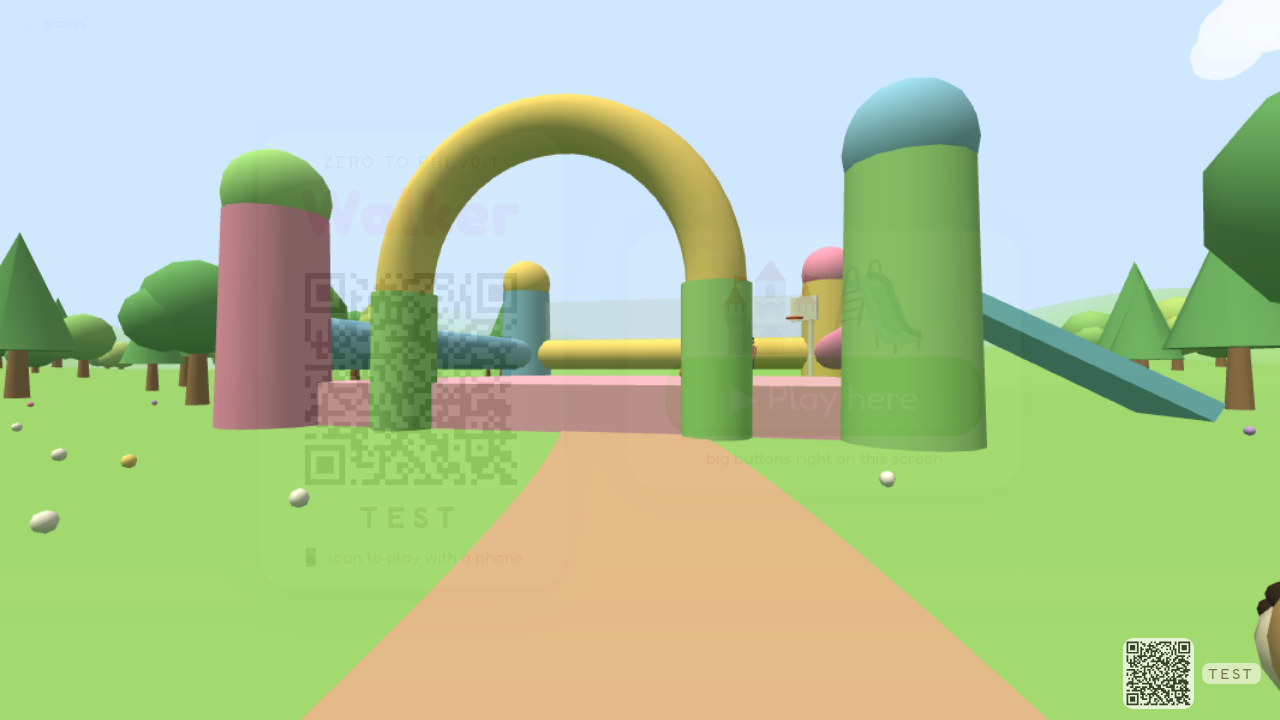
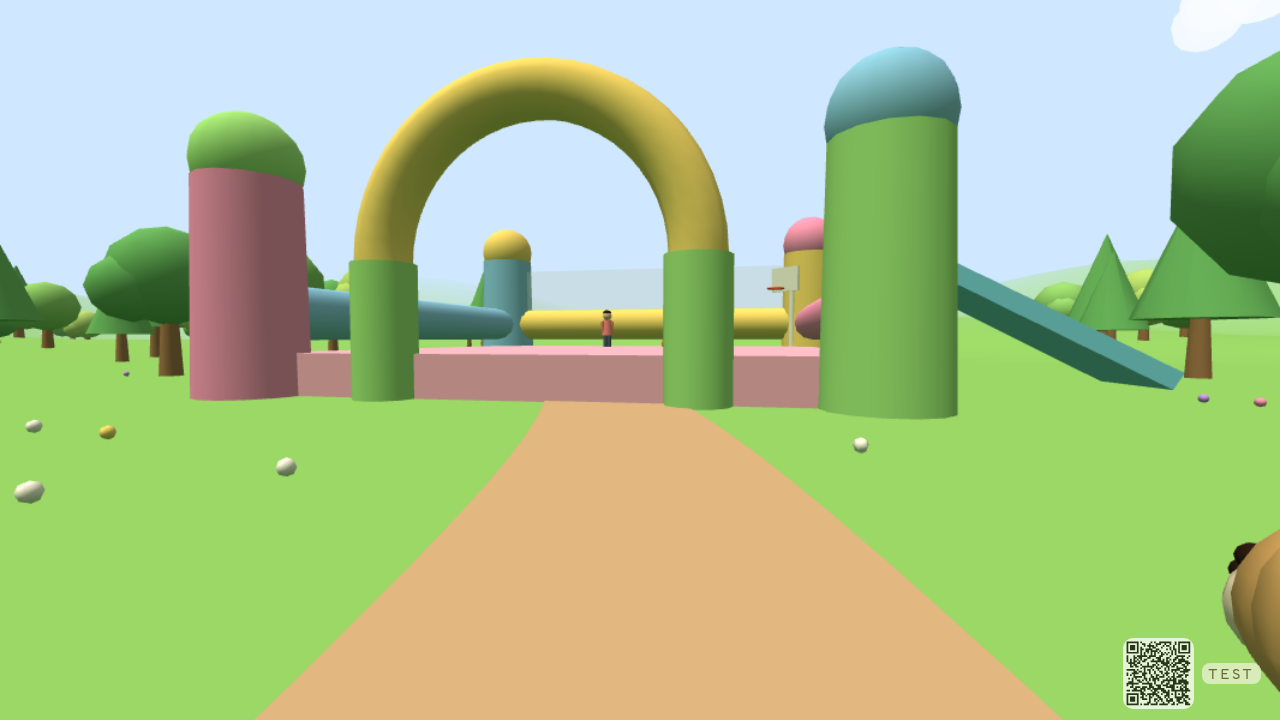
Space + Walker: welcome-first handshake, patient dial timeout, Coming aboard/Connecting watchdog with retry + messages; Walker start overlay dismisses on join/any input

diff --git a/games/walker/js/tv.js b/games/walker/js/tv.js
@@ -424,7 +424,8 @@
   function pushState() { var m = stateMsg(); for (var id in phones) net.send(phones[id], m); if (localPad) localPad.setState(m); lastPush = st.t; }
   function onMsg(conn, m) {
     if (!m || !m.t) return;
-    if (!phones[conn.connectionId]) { phones[conn.connectionId] = conn; nPhones++; hideStart(); }
+    if (!phones[conn.connectionId]) { phones[conn.connectionId] = conn; nPhones++; }
+    hideStart();
     if (m.t === 'hello') { net.send(conn, stateMsg()); }
     else if (m.t === 'tap') tap(m.id);
     else if (m.t === 'back') back();
@@ -433,7 +434,7 @@
   }
   function applySettings(s) { for (var k in s) if (k in C.defaults) settings[k] = s[k]; walkerSaveSettings(settings); setBuddy(); pushState(); }
   var useLocal = q.get('local') === '1';
-  var net = new (useLocal ? LRNet.LocalHost : LRNet.Host)({ code: q.get('room') || undefined, onStatus: function (s, code) { showCode(); }, onMessage: onMsg, onClose: function (c) { if (phones[c.connectionId]) { delete phones[c.connectionId]; nPhones--; } } });
+  var net = new (useLocal ? LRNet.LocalHost : LRNet.Host)({ code: q.get('room') || undefined, onStatus: function (s, code) { showCode(); }, onMessage: onMsg, onJoin: function (c) { if (!phones[c.connectionId]) { phones[c.connectionId] = c; nPhones++; } hideStart(); }, onClose: function (c) { if (phones[c.connectionId]) { delete phones[c.connectionId]; nPhones--; } } });
 
   // ---------------------------------------------------------------- start screen + Play here
   var startEl = document.getElementById('start'), localPad = null;
@@ -444,7 +445,15 @@
     document.getElementById('mini').innerHTML = document.getElementById('qr').innerHTML; document.getElementById('minicode').textContent = net.code;
     window.WALKER.controllerUrl = url;
   }
-  function hideStart() { if (st.mode === 'start') { st.mode = 'area'; startEl.classList.add('gone'); S.init(); pushState(); } }
+  var started = false;
+  // the overlay goes on its own flag: st.mode can drift off 'start' (idle moments etc.) before a phone arrives, which used to leave the QR up forever
+  function hideStart() {
+    if (started) return; started = true;
+    startEl.classList.add('gone'); setTimeout(function () { startEl.style.display = 'none'; }, 900);
+    if (st.mode === 'start') st.mode = 'area';
+    try { S.init(); } catch (e) {}
+    try { pushState(); } catch (e) {}
+  }
   function playHere() {
     S.init(); hideStart(); if (localPad) return;
     document.body.classList.add('local');
@@ -454,9 +463,9 @@
   }
   document.getElementById('here').onclick = playHere;
   document.addEventListener('pointerdown', function () { S.init(); });
-  document.addEventListener('keydown', function (e) { S.init(); if (e.key === 'Enter' && st.mode === 'start') playHere(); });
+  document.addEventListener('keydown', function (e) { S.init(); if (e.key === 'Enter' && !started) playHere(); });
   var tablet = isTouch && minDim >= 600 && maxDim <= 1600;
-  if (tablet) { document.getElementById('here').classList.add('suggest'); setTimeout(function () { if (st.mode === 'start' && !nPhones) playHere(); }, 7000); }
+  if (tablet) { document.getElementById('here').classList.add('suggest'); setTimeout(function () { if (!started && !nPhones) playHere(); }, 7000); }
   if (q.get('auto') === 'here') setTimeout(playHere, 300);
   document.getElementById('ver').textContent = 'v' + C.version;
 
@@ -474,6 +483,6 @@
     if (fpsT > 2 && !q.has('q')) { var fps = fpsN / fpsAcc; if (fps < C.quality.downBelowFps && rung < C.quality.rungs.length - 1) { slow++; if (slow > 1) { rung++; applyQ(); slow = 0; } } else slow = 0; if (fps > C.quality.upAboveFps && rung > 0) { fast++; if (fast > 6) { rung--; applyQ(); fast = 0; } } else fast = 0; fpsAcc = fpsN = fpsT = 0; }
     requestAnimationFrame(frame);
   }
-  window.WALKER = { st: st, tap: tap, back: back, moment: momentTap, set: applySettings, settings: settings, playHere: playHere, hue: function () { return hue; }, pos: pos, W: W, weather: weather, step: function (sec) { for (var i = 0; i < sec * 30; i++) { update(1 / 30); updateKids(1 / 30); updateBuddy(1 / 30); updateWorld(1 / 30); updateMoments(1 / 30); } renderer.render(scene, cam); } };
+  window.WALKER = { st: st, tap: tap, back: back, moment: momentTap, set: applySettings, settings: settings, playHere: playHere, started: function () { return started; }, hue: function () { return hue; }, pos: pos, W: W, weather: weather, step: function (sec) { for (var i = 0; i < sec * 30; i++) { update(1 / 30); updateKids(1 / 30); updateBuddy(1 / 30); updateWorld(1 / 30); updateMoments(1 / 30); } renderer.render(scene, cam); } };
   requestAnimationFrame(frame);
 })();

diff --git a/games/space/js/controller.js b/games/space/js/controller.js
@@ -14,21 +14,38 @@
   function buzz(ms) { try { if (navigator.vibrate) navigator.vibrate(ms || 15); } catch (e) {} }
 
   // ================================================================== join
+  var dock = { t0: 0, timer: null, hellos: 0, attempt: 0 };
+  function jstat(t) { $('joinStatus').textContent = t; }
+  function dockWatch() {        // 'Coming aboard' never hangs silently: re-greet, then say what's wrong, keep retrying
+    clearInterval(dock.timer);
+    dock.timer = setInterval(function () {
+      if (me) { clearInterval(dock.timer); return; }
+      var secs = (Date.now() - dock.t0) / 1000, online = net && net.status === 'online';
+      if (online && dock.hellos < 6) { dock.hellos++; send({ t: 'hello', clientId: cid, name: dock.name }); }
+      else if (online && net.reconnect) { dock.hellos = 0; net.reconnect(); }
+      if (secs > 45) { jstat('Can\u2019t reach the ship yet. Is ' + C.TITLE + ' open on the TV, and is this phone on the same Wi-Fi? Still trying\u2026'); $('joinBtn').textContent = 'TRY AGAIN'; }
+      else if (secs > 12) jstat(online ? 'Linked, waiting for the bridge to answer\u2026' : 'Still docking\u2026 (try ' + Math.max(1, dock.attempt) + ')');
+    }, 3000);
+  }
   function join() {
     var room = $('room').value.trim().toUpperCase(), name = $('name').value.trim() || 'Crew';
-    if (room.length !== 4) { $('joinStatus').textContent = 'Enter the 4-letter code from the bulkhead.'; return; }
-    localStorage.setItem('ds-name', name); $('joinStatus').textContent = 'Docking\u2026';
-    var opts = { code: room, onOpen: function () { send({ t: 'hello', clientId: cid, name: name }); }, onMessage: onMsg,
-      onStatus: function (s) { $('conn').className = 'conn' + (s === 'online' ? ' on' : ''); if (s === 'noroom') $('joinStatus').textContent = 'No ship with that code. Check the bulkhead.'; } };
+    if (room.length !== 4) { jstat('Enter the 4-letter code from the bulkhead.'); return; }
+    localStorage.setItem('ds-name', name); jstat('Docking\u2026'); $('joinBtn').textContent = 'COMING ABOARD\u2026';
+    dock.t0 = Date.now(); dock.hellos = 0; dock.name = name;
+    if (net) { if (net.code === room && net.reconnect) { net.reconnect(); dockWatch(); return; } try { net.destroy && net.destroy(); } catch (e) {} net = null; }
+    var opts = { code: room, onOpen: function () { dock.hellos = 0; jstat('Linked. Coming aboard\u2026'); send({ t: 'hello', clientId: cid, name: name }); }, onMessage: onMsg,
+      onAttempt: function (n) { dock.attempt = n; },
+      onStatus: function (s) { $('conn').className = 'conn' + (s === 'online' ? ' on' : ''); if (s === 'noroom' && !me) jstat('No ship with code ' + room + ' yet. Is ' + C.TITLE + ' open on the TV? Retrying\u2026'); } };
     net = LOCAL ? new window.LRNet.LocalClient(opts) : new window.LRNet.Client(opts);
+    dockWatch();
   }
   $('joinBtn').onclick = join;
   if (Q.has('auto') || (Q.get('room') && localStorage.getItem('ds-name') && Q.has('rejoin'))) setTimeout(join, 50);
 
   function onMsg(m) {
     if (!m || !m.t) return;
-    if (m.t === 'reject') { $('joinStatus').textContent = m.reason; return; }
-    if (m.t === 'welcome') { me = m.cid; sector = m.sector; byId = {}; sector.forEach(function (d) { byId[d.id] = d; }); topo = m.topo; sites = m.sites; $('join').hidden = true; $('main').hidden = false; buildCats(); buildSci(); buildSites(); buzz(30); return; }
+    if (m.t === 'reject') { clearInterval(dock.timer); jstat(m.reason); $('joinBtn').textContent = 'COME ABOARD'; return; }
+    if (m.t === 'welcome') { clearInterval(dock.timer); $('joinBtn').textContent = 'COME ABOARD'; me = m.cid; sector = m.sector; byId = {}; sector.forEach(function (d) { byId[d.id] = d; }); topo = m.topo; sites = m.sites; $('join').hidden = true; $('main').hidden = false; buildCats(); buildSci(); buildSites(); buzz(30); return; }
     if (m.t === 'prompt') { showPrompt(m); return; }
     if (m.t === 'st') { S = m; render(); }
   }

diff --git a/games/walker/js/controller.js b/games/walker/js/controller.js
@@ -10,12 +10,28 @@
   }
   document.addEventListener('visibilitychange', function () { if (document.visibilityState === 'visible') applyWake(); });
   document.addEventListener('pointerdown', applyWake, { once: true });
+  var lk = document.getElementById('linking'), linked = false, t0 = 0, watch = null;
+  function lkShow(msg, sub, retry) { lk.classList.remove('hide'); document.getElementById('lkMsg').textContent = msg; document.getElementById('lkSub').textContent = sub || ''; document.getElementById('lkRetry').classList.toggle('hide', !retry); }
+  function confirmed() { if (!linked) { linked = true; lk.classList.add('hide'); clearInterval(watch); } }
+  document.getElementById('lkRetry').onclick = function () { t0 = Date.now(); lkShow('Connecting\u2026'); if (net && net.reconnect) net.reconnect(); };
   function start(c) {
     code = c; document.getElementById('join').classList.add('hide');
-    var o = { code: code, onStatus: function (s) { dot.classList.toggle('on', s === 'online'); },
+    t0 = Date.now(); lkShow('Connecting\u2026');
+    var o = { code: code, onStatus: function (s) { dot.classList.toggle('on', s === 'online'); if (s !== 'online' && linked) { linked = false; t0 = Date.now(); lkShow('Reconnecting\u2026'); startWatch(); } if (s === 'noroom' && !linked) lkShow('Looking for the TV\u2026', 'Is Walker open on the TV? Room ' + code); },
       onOpen: function () { net.send({ t: 'hello', s: pad.s }); },
-      onMessage: function (m) { if (m && m.t === 'st') pad.setState(m); } };
+      onMessage: function (m) { if (m && m.t === 'st') { confirmed(); pad.setState(m); } } };   // linked = the TV actually answered
     net = local ? new LRNet.LocalClient(o) : new LRNet.Client(o);
+    startWatch();
+  }
+  function startWatch() {
+    clearInterval(watch);
+    watch = setInterval(function () {
+      if (linked) { clearInterval(watch); return; }
+      if (net && net.status === 'online') net.send({ t: 'hello', s: pad.s });
+      var secs = (Date.now() - t0) / 1000;
+      if (secs > 40) lkShow('Can\u2019t reach the TV', 'Check Walker is open on the TV and this device is on the same Wi-Fi. Still trying\u2026', true);
+      else if (secs > 12) lkShow('Still connecting\u2026', 'Room ' + code);
+    }, 3000);
   }
   if (code) start(code);
   else { var j = document.getElementById('join'); j.classList.remove('hide'); document.getElementById('go').onclick = function () { var v = document.getElementById('code').value.trim().toUpperCase(); if (v.length === 4) start(v); }; }

diff --git a/games/space/js/net.js b/games/space/js/net.js
@@ -24,7 +24,7 @@
     var peer = this.peer = new root.Peer((this.o.prefix || C.peerPrefix) + this.code, peerOpts());
     peer.on('open', function () { self.tries = 0; self.setStatus('online'); });
     peer.on('connection', function (conn) {
-      conn.on('open', function () { self.conns[conn.connectionId] = conn; });
+      conn.on('open', function () { self.conns[conn.connectionId] = conn; if (self.o.onJoin) try { self.o.onJoin(conn); } catch (e) {} });
       conn.on('data', function (d) { self.conns[conn.connectionId] = conn; if (self.o.onMessage) self.o.onMessage(conn, d); });
       conn.on('close', function () { delete self.conns[conn.connectionId]; if (self.o.onClose) self.o.onClose(conn); });
       conn.on('error', function () { delete self.conns[conn.connectionId]; if (self.o.onClose) self.o.onClose(conn); });
@@ -92,9 +92,13 @@
     var self = this;
     if (this.conn) try { this.conn.close(); } catch (e) {}
     var conn = this.conn = this.peer.connect(C.peerPrefix + this.code, { reliable: true });
-    var timer = setTimeout(function () { if (conn === self.conn && !conn.open) { self.setStatus('reconnecting', 'timeout'); self.retry(1000); } }, 9000);
+    // a busy TV (Chromecast drawing 3D) can take well over 9 s to answer; a short fixed timeout kept killing a handshake that was about to land
+    this.attempt = (this.attempt || 0) + 1;
+    var wait = Math.min(30000, 15000 + 5000 * (this.attempt - 1));
+    if (this.o.onAttempt) try { this.o.onAttempt(this.attempt, wait); } catch (e) {}
+    var timer = setTimeout(function () { if (conn === self.conn && !conn.open) { self.setStatus('reconnecting', 'timeout'); self.retry(1000); } }, wait);
     conn.on('open', function () {
-      clearTimeout(timer); self.tries = 0; self.lastHeard = Date.now();
+      clearTimeout(timer); self.tries = 0; self.attempt = 0; self.lastHeard = Date.now();
       self.setStatus('online');
       if (self.o.onOpen) self.o.onOpen();
     });

diff --git a/games/walker/js/net.js b/games/walker/js/net.js
@@ -24,7 +24,7 @@
     var peer = this.peer = new root.Peer((this.o.prefix || C.peerPrefix) + this.code, peerOpts());
     peer.on('open', function () { self.tries = 0; self.setStatus('online'); });
     peer.on('connection', function (conn) {
-      conn.on('open', function () { self.conns[conn.connectionId] = conn; });
+      conn.on('open', function () { self.conns[conn.connectionId] = conn; if (self.o.onJoin) try { self.o.onJoin(conn); } catch (e) {} });
       conn.on('data', function (d) { self.conns[conn.connectionId] = conn; if (self.o.onMessage) self.o.onMessage(conn, d); });
       conn.on('close', function () { delete self.conns[conn.connectionId]; if (self.o.onClose) self.o.onClose(conn); });
       conn.on('error', function () { delete self.conns[conn.connectionId]; if (self.o.onClose) self.o.onClose(conn); });
@@ -92,9 +92,13 @@
     var self = this;
     if (this.conn) try { this.conn.close(); } catch (e) {}
     var conn = this.conn = this.peer.connect(C.peerPrefix + this.code, { reliable: true });
-    var timer = setTimeout(function () { if (conn === self.conn && !conn.open) { self.setStatus('reconnecting', 'timeout'); self.retry(1000); } }, 9000);
+    // a busy TV (Chromecast drawing 3D) can take well over 9 s to answer; a short fixed timeout kept killing a handshake that was about to land
+    this.attempt = (this.attempt || 0) + 1;
+    var wait = Math.min(30000, 15000 + 5000 * (this.attempt - 1));
+    if (this.o.onAttempt) try { this.o.onAttempt(this.attempt, wait); } catch (e) {}
+    var timer = setTimeout(function () { if (conn === self.conn && !conn.open) { self.setStatus('reconnecting', 'timeout'); self.retry(1000); } }, wait);
     conn.on('open', function () {
-      clearTimeout(timer); self.tries = 0; self.lastHeard = Date.now();
+      clearTimeout(timer); self.tries = 0; self.attempt = 0; self.lastHeard = Date.now();
       self.setStatus('online');
       if (self.o.onOpen) self.o.onOpen();
     });

diff --git a/games/space/js/tv.js b/games/space/js/tv.js
@@ -455,17 +455,18 @@
     if (!m || !m.t) return;
     var me = crew.find(function (q) { return q.conn === conn; });
     if (m.t === 'hello') {
-      me = member(m.clientId);
+      me = member(m.clientId); var isNew = !me;
       if (!me) {
         if (crew.filter(function (q) { return q.connected; }).length >= C.maxCrew) { net.send(conn, { t: 'reject', reason: 'The bridge is full (' + C.maxCrew + ' crew). Watch the big screen!' }); return; }
         me = { cid: m.clientId, name: String(m.name || 'Crew').slice(0, 14), onBridge: true }; crew.push(me);
-        SFX.play('join'); log(me.name + ' came aboard.', 'crew');
-        if (crew.filter(function (q) { return q.connected; }).length === 0 && !asg.cap) say('Welcome aboard, Captain ' + me.name + '.', 'calm');
-        else say(me.name + ' is on the bridge.', 'calm', true);
       }
+      var first = isNew && crew.filter(function (q) { return q.connected; }).length === 0 && !asg.cap;
       me.conn = conn; me.connected = true; me.seen = performance.now(); if (m.name) me.name = String(m.name).slice(0, 14);
+      // welcome FIRST: nothing cosmetic (sound, voice, log) may stand between a phone and its welcome
       net.send(conn, { t: 'welcome', cid: me.cid, sector: C.sector.map(function (d) { return { id: d.id, kind: d.kind, cat: d.cat, name: d.name, x: d.x, y: d.y, z: d.z, r: d.r, flavour: d.flavour, landable: !!d.landable, reviews: d.reviews }; }), topo: topo, sites: SITES });
-      rebalance(); sendState(true); return;
+      try { rebalance(); sendState(true); } catch (e) { if (window.console) console.error(e); }
+      if (isNew) try { SFX.play('join'); log(me.name + ' came aboard.', 'crew'); if (first) say('Welcome aboard, Captain ' + me.name + '.', 'calm'); else say(me.name + ' is on the bridge.', 'calm', true); } catch (e) {}
+      return;
     }
     if (!me) return;
     me.connected = true; me.seen = performance.now();

diff --git a/games/walker/controller.html b/games/walker/controller.html
@@ -15,8 +15,13 @@ html,body{margin:0;height:100%;background:#fdf3e1;overflow:hidden;font-family:Fr
 #dot{position:absolute;top:4px;right:10px;width:12px;height:12px;border-radius:50%;background:#ccc;z-index:8}
 #dot.on{background:#7ed957}
 .hide{display:none!important}
+#linking{position:absolute;inset:0;display:flex;flex-direction:column;align-items:center;justify-content:center;gap:14px;background:#fdf3e1;z-index:10;text-align:center;padding:24px;font-size:24px}
+#linking .sp{font-size:64px;animation:wb 1.2s ease-in-out infinite}@keyframes wb{50%{transform:translateY(-14px)}}
+#linking small{font-size:16px;opacity:.75;max-width:22em}
+#linking button{font:inherit;font-size:22px;padding:10px 26px;border-radius:18px;border:0;background:#7ed957;color:#fff}
 </style></head><body>
 <div id="pad"></div><div id="dot"></div>
+<div id="linking" class="hide"><div class="sp">&#x1F642;</div><div id="lkMsg">Connecting…</div><small id="lkSub"></small><button id="lkRetry" class="hide">Try again</button></div>
 <div id="join" class="hide"><div style="font-size:60px">&#x1F642;</div><input id="code" maxlength="4" placeholder="ABCD" autocomplete="off"><button id="go">&#x25B6;</button></div>
 <script src="js/vendor/peerjs.min.js"></script>
 <script>if (typeof Peer !== 'function') document.write('<script src="js/vendor/peerjs.legacy.min.js"><\/script>');</script>
